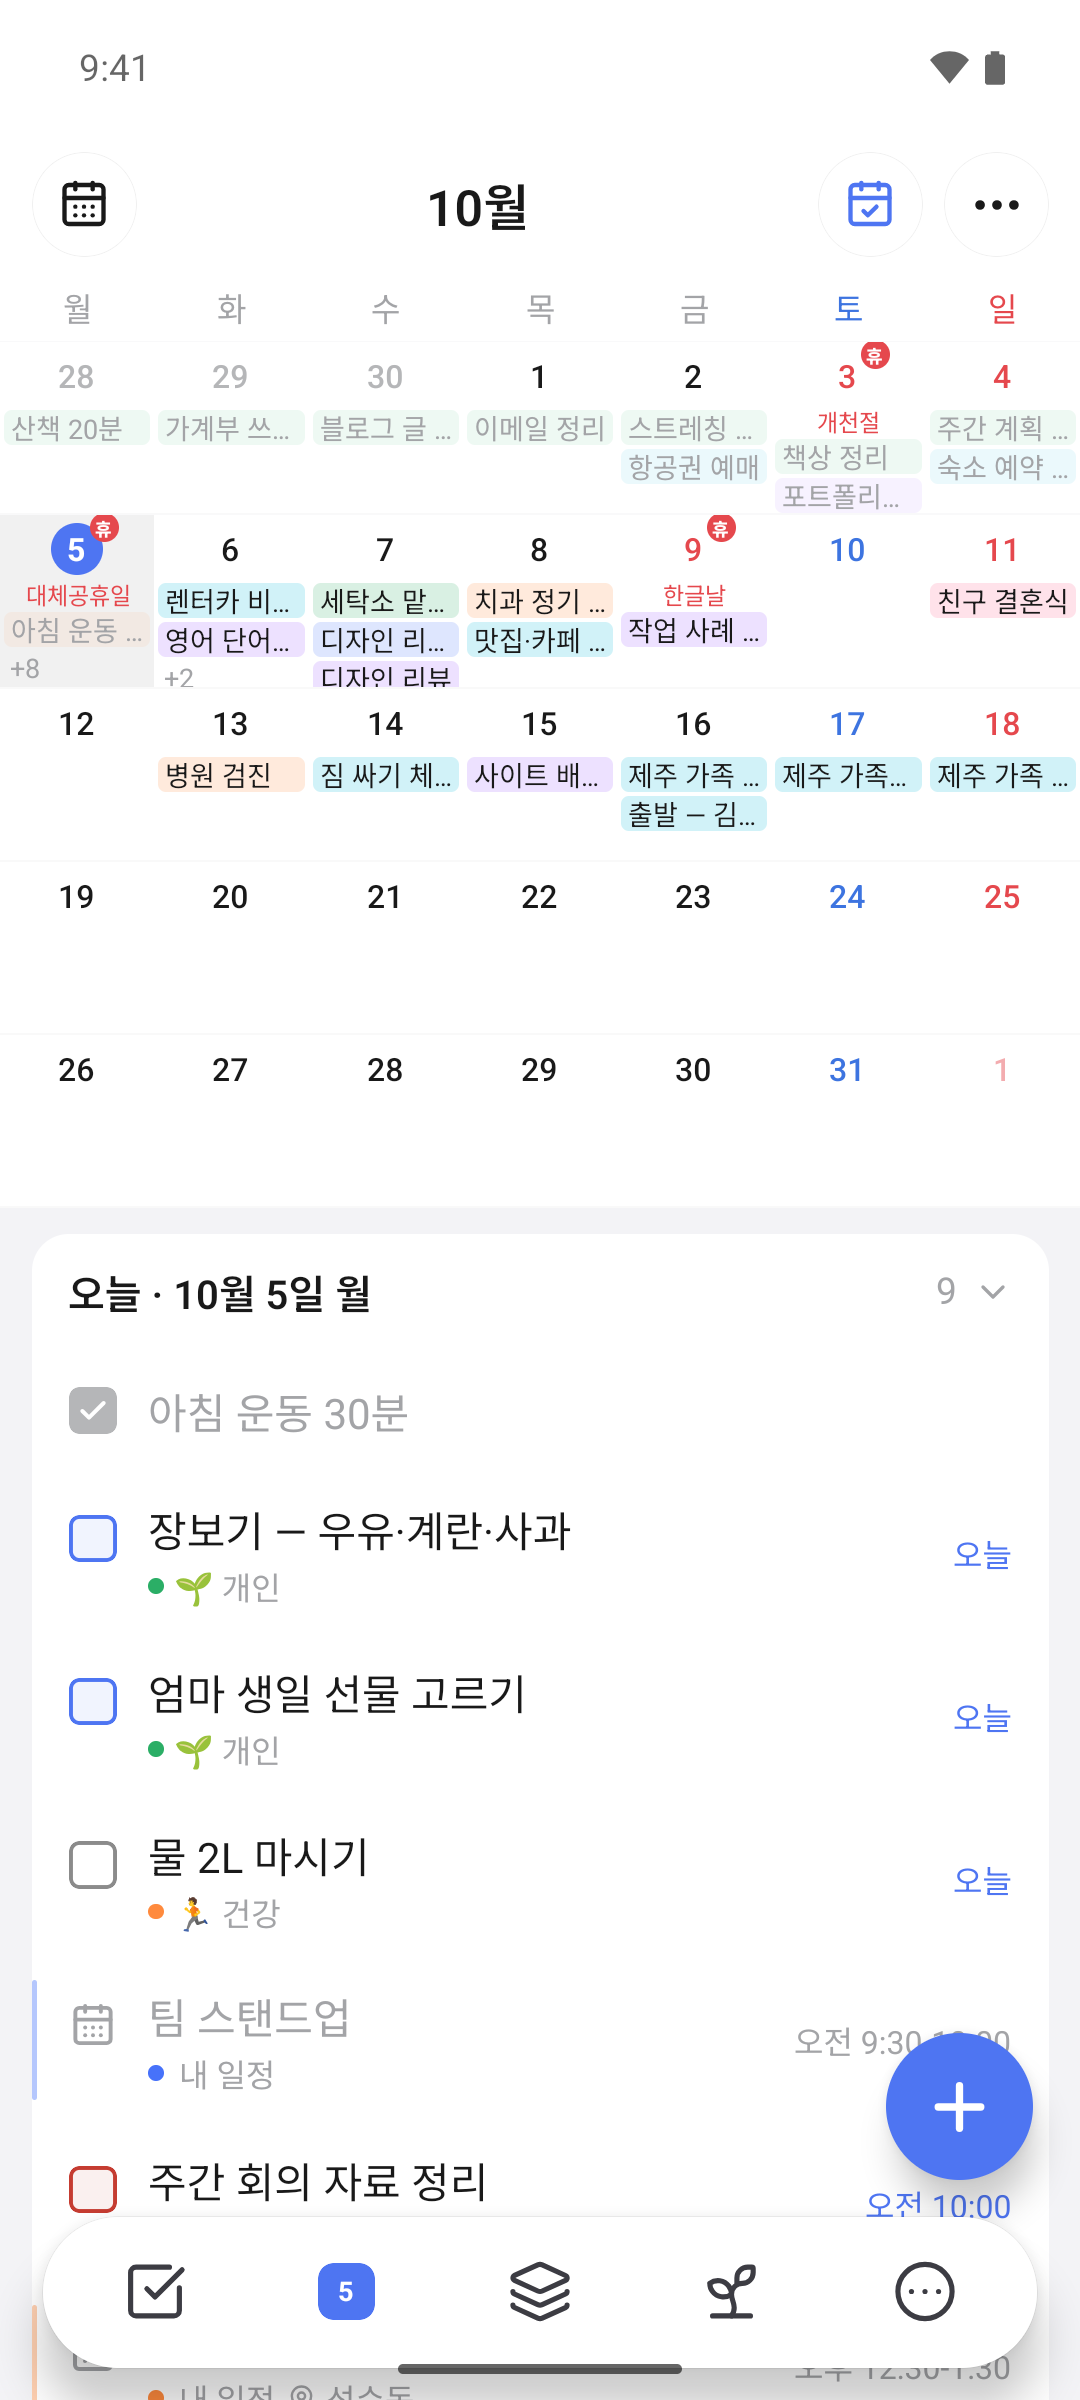
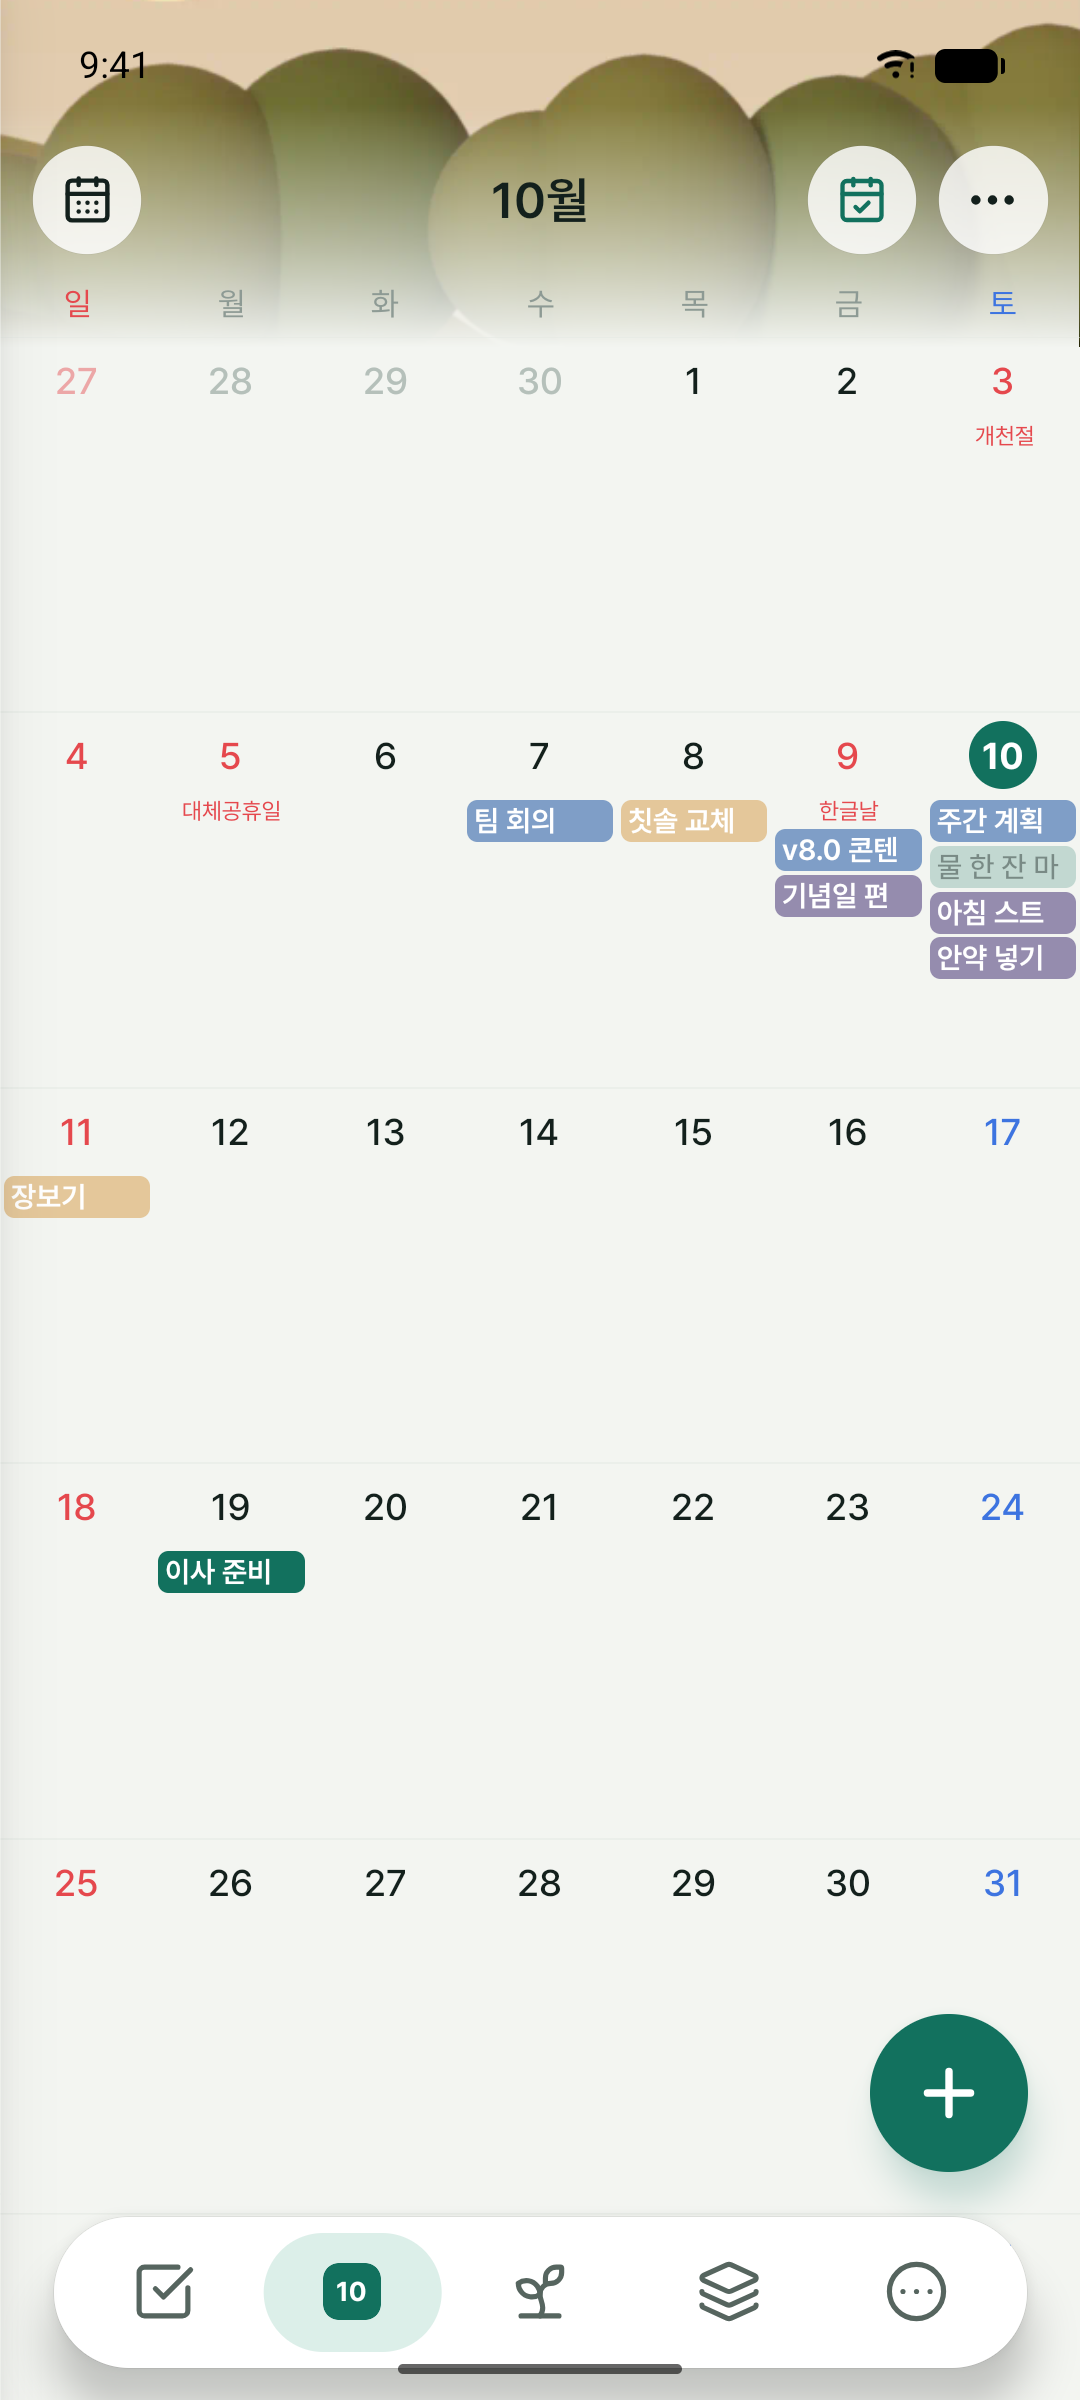
Android 스토어 스크린숏 6장 새 디자인으로(1080×2400, Pixel 6a · 빌드 3 출시 APK): 오늘 · 캘린더 · 성장 · AI 비서 · 할 일 상세 · 캘린더 다크

diff --git a/docs/release/store/play-listing.md b/docs/release/store/play-listing.md
@@ -72,7 +72,7 @@
 |---|---|---|
 | 앱 아이콘 | `docs/release/store/play-assets/icon-512.png` (45 확정 로고 씨앗 친구 × 깊은 숲, 2026-10-09 교체 — `node scripts/brand/build-icons.mjs seed --apply`로 다시 만든다) | 512×512 PNG, 32비트(RGBA) |
 | 그래픽 이미지(Feature graphic) | `docs/release/store/play-assets/feature-graphic-1024x500.png` (깊은 숲 판 + 씨앗 친구 + 직접 그린 글자 로고 "꿈틀" + 한 줄 소개, 2026-10-09 교체 — `node scripts/brand/build-marketing.mjs`). 글자 없는 판: `brand/out/seed/store/play-feature-graphic-1024x500.png`(git 제외 폴더) | 1024×500, 투명 없음 |
-| 휴대전화 스크린샷 | `docs/release/store/screenshots/android/` 6장, 번호 순서대로: 01 오늘 · 02 캘린더(월) · 03 성장(캐릭터) · 04 리스트(제주 여행) · 05 할 일 상세(체크리스트) · 06 캘린더 다크. 릴리스 빌드(1.0.0) + 데모 계정(가짜 데이터, 촬영 뒤 삭제), 상태 표시줄 데모 모드 9:41 | 1080×2400(9:20), 2~8장 |
+| 휴대전화 스크린샷 | `docs/release/store/screenshots/android/` 6장(2026-10-10 새 디자인), 번호 순서대로: 01 오늘 · 02 캘린더(월) · 03 성장(3D 정원·캐릭터) · 04 AI 비서 · 05 할 일 상세 · 06 캘린더 다크. 릴리스 빌드(빌드 3) + 스크린숏용 시험 계정(예시 데이터, 촬영 뒤 삭제), 에뮬레이터 Pixel 6a, 상태 표시줄 데모 모드 9:41 | 1080×2400(9:20), 2~8장 |
 | 태블릿 스크린샷 | 올리지 않음(선택 항목) | |
 | 동영상(YouTube) | 없음 | |
 
